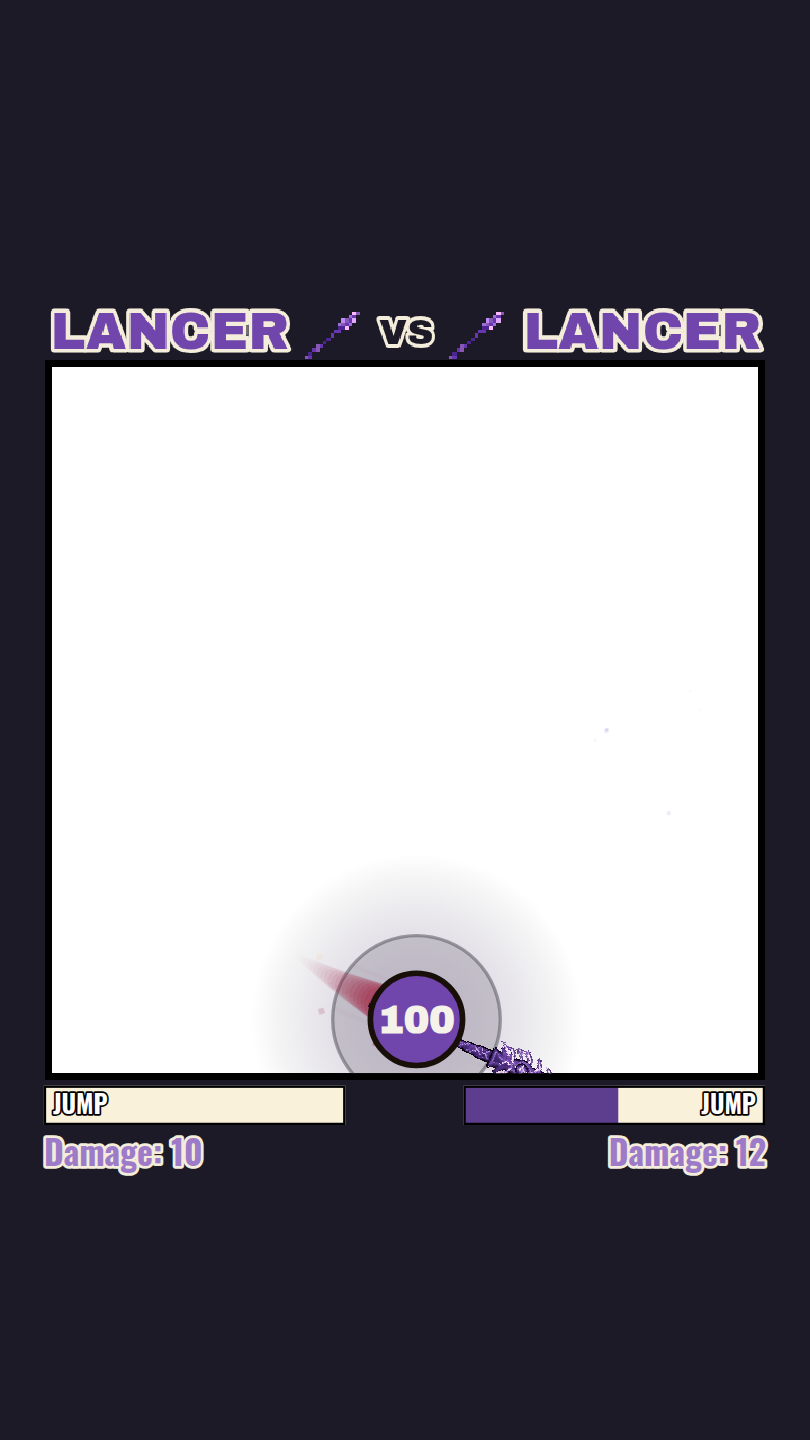
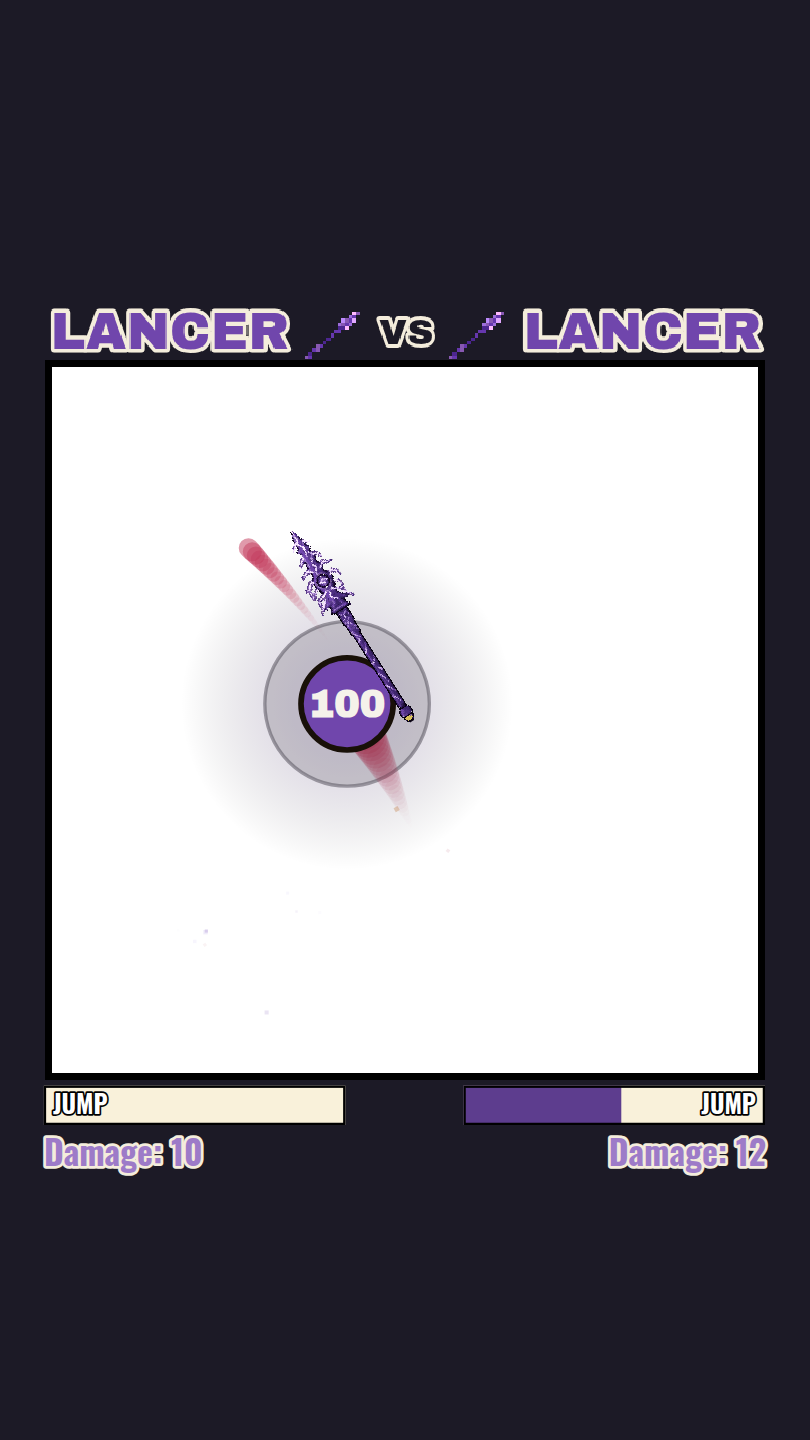
Aligne l'arme du Lancier sur la vidéo : calque, ancrage latéral, arrêt avant charge
Trois comportements demandés, tous relevés sur la vidéo de référence avant
d'être codés. Note préalable : le bloc « scripts du Dragoon » du brief est
arrivé vide, et de toute façon le Dragoon *est* le Lancier dans ce dépôt — il
n'existe pas de seconde classe. La vidéo est donc la seule référence.

1. Ordre d'affichage

L'arme passait sous le corps ; la vidéo montre la lance qui recouvre
franchement la bille, contour compris. Drapeau `weapon.overBody` porté par la
**fiche**, pas par le moteur, qui continue de ne connaître aucun combattant :
les dix autres gardent l'arme dessous, qui est leur relevé.

Elle est posée après le contour et les anneaux d'état mais **avant le chiffre
de PV**. Dans un miroir Lancier contre Lancier — le duel par défaut depuis la
réduction du roster — ce chiffre est le seul repère qui distingue les deux
camps, et une lance de 164 px par-dessus le perdrait.

2. Ancrage latéral, et recentrage à la charge

Mesuré : distance **signée** du centre de la bille à l'axe de la lance (rayon
33 px vidéo) — +20 px au repos, +38 en croisière, et **+1 px en pleine charge**,
c'est-à-dire pile au centre ; 74 % des images du même côté. La lance est portée
sur le flanc et vient se mettre dans l'axe pour charger.

Le premier relevé de ce décalage rendait 6 px partout, régime après régime, et
concluait donc « rien ne bouge » — un résultat plat que l'œil contredisait sur
une simple capture. Il mesurait le **centroïde** du nuage sombre, et son masque
[…]

Changed region(s): [[0.2778, 0.375, 0.5556, 0.5625], [0.3704, 0.625, 0.679, 0.75], [0.7407, 0.75, 0.7716, 0.7812]]

diff --git a/src/game/fighter.js b/src/game/fighter.js
@@ -91,11 +91,20 @@ export class Fighter {
     /**
      * Temps restant pendant lequel le combattant **sème des images fantômes**.
      * Générique comme `offstage` : le moteur ne sait pas *pourquoi* il en sème,
-     * seul son module le sait (la charge du Dragoon). C'est `render/flair.js`
+     * seul son module le sait (la charge du Lancier). C'est `render/flair.js`
      * qui le lit, donc allumer ce compteur ne peut rien changer au duel — la
      * mise en scène a son propre aléa et son propre banc de particules.
      */
     this.ghosting = 0;
+
+    /**
+     * Décalage **perpendiculaire** de l'ancrage de l'arme, en px, positif vers
+     * la gauche de l'axe. Même forme que les autres compteurs génériques : un
+     * module l'écrit, `weaponPivot()` s'en sert, et le moteur ne sait pas
+     * pourquoi. À zéro — la valeur par défaut, celle des dix autres
+     * combattants — l'arme reste ancrée au centre du corps.
+     */
+    this.weaponLateral = 0;
 
     this.trailTimer = 0;
     this.boost = 0; // durée restante d'un bonus de vitesse
@@ -270,16 +279,39 @@ export class Fighter {
   /* Géométrie de l'arme                                                 */
   /* ------------------------------------------------------------------ */
 
+  /**
+   * **Pivot de l'arme**, en coordonnées monde.
+   *
+   * `weaponLateral` décale l'ancrage **perpendiculairement à l'axe de l'arme**
+   * — c'est un compteur générique de plus (cf. `ghosting`) : un module
+   * l'allume, le moteur s'en sert, et le moteur ne sait pas pourquoi. À zéro,
+   * qui est la valeur par défaut, rien ne change pour personne.
+   *
+   * `bladeSegment()` et `drawWeapon()` passent **tous les deux** par ici, et
+   * c'est le point : décaler seulement le dessin ferait mentir le sprite sur
+   * l'endroit où il coupe. C'est la même discipline que `handle.length`, dont
+   * la somme avec la carte doit toujours retomber sur la portée.
+   */
+  weaponPivot() {
+    const lat = this.weaponLateral;
+    if (!lat) return { x: this.x, y: this.y };
+    return {
+      x: this.x - Math.sin(this.weaponAngle) * lat,
+      y: this.y + Math.cos(this.weaponAngle) * lat,
+    };
+  }
+
   /** Segment tranchant [a,b] en coordonnées monde + rayon. */
   bladeSegment() {
     const { reach, hitbox } = this.el.weapon;
     const c = Math.cos(this.weaponAngle);
     const s = Math.sin(this.weaponAngle);
+    const o = this.weaponPivot();
     return {
-      ax: this.x + c * reach * hitbox.from,
-      ay: this.y + s * reach * hitbox.from,
-      bx: this.x + c * reach * hitbox.to,
-      by: this.y + s * reach * hitbox.to,
+      ax: o.x + c * reach * hitbox.from,
+      ay: o.y + s * reach * hitbox.from,
+      bx: o.x + c * reach * hitbox.to,
+      by: o.y + s * reach * hitbox.to,
       r: hitbox.radius,
     };
   }
@@ -305,9 +337,17 @@ export class Fighter {
       ctx.fill();
     }
 
-    // un module de pouvoirs peut fournir son propre rendu d'arme
-    if (this.customWeapon) this.customWeapon(ctx);
-    else this.drawWeapon(ctx);
+    /**
+     * Ordre d'affichage. Par défaut l'arme passe **sous** le corps, ce qui est
+     * le relevé de tous les combattants d'origine. `weapon.overBody` la fait
+     * passer par-dessus — c'est le cas du Lancier, dont la vidéo montre la
+     * lance qui recouvre franchement la bille.
+     *
+     * Le drapeau est porté par la **fiche** et non par le moteur : celui-ci ne
+     * connaît toujours aucun combattant, il lit.
+     */
+    const overBody = this.el.weapon.overBody === true;
+    if (!overBody) this.paintWeapon(ctx);
 
     // corps — le flash blanc d'encaissement prime sur tout, puis la teinte
     // d'un contrôle adverse se pose (ou se mélange) sur la couleur d'élément
@@ -355,6 +395,14 @@ export class Fighter {
       ctx.fill();
     }
 
+    /**
+     * L'arme au-dessus du corps se pose ici : après le contour et les anneaux
+     * d'état, **avant le chiffre de PV**. Le chiffre reste donc lisible — dans
+     * un miroir Lancier contre Lancier, c'est le seul repère qui distingue les
+     * deux camps, et le faire recouvrir par une lance de 164 px le perdrait.
+     */
+    if (overBody) this.paintWeapon(ctx);
+
     // points de vie
     ctx.font = look.hpFont;
     ctx.textAlign = 'center';
@@ -370,6 +418,12 @@ export class Fighter {
     return true;
   }
 
+  /** Un module de pouvoirs peut fournir son propre rendu d'arme. */
+  paintWeapon(ctx) {
+    if (this.customWeapon) this.customWeapon(ctx);
+    else this.drawWeapon(ctx);
+  }
+
   /** @param {CanvasRenderingContext2D} ctx */
   drawWeapon(ctx) {
     const w = this.el.weapon;
@@ -377,7 +431,9 @@ export class Fighter {
     const headH = map.h * w.head.scale;
 
     ctx.save();
-    ctx.translate(this.x, this.y);
+    // le pivot, pas le centre du corps : voir `weaponPivot()`
+    const pivot = this.weaponPivot();
+    ctx.translate(pivot.x, pivot.y);
     ctx.rotate(this.weaponAngle);
 
     // manche : rectangle sombre + liseré, comme sur la vidéo.

diff --git a/src/game/abilities/lancer.js b/src/game/abilities/lancer.js
@@ -88,7 +88,7 @@ import { ARENA } from '../../data/tuning.js';
  * aucun sens, et geler l'angle non plus — c'est le cap qui est gele pendant la
  * charge, et l'arme suit.
  *
- * @typedef {'seek'|'dash'|'recover'} LungePhase
+ * @typedef {'seek'|'brace'|'dash'|'recover'} LungePhase
  */
 
 export const lancerAbilities = {
@@ -171,6 +171,30 @@ export const lancerAbilities = {
     f.weaponAngle = wrapAngle(f.heading);
 
     /**
+     * **Ancrage latéral, et son recentrage au moment de la charge.**
+     *
+     * Relevé sur la vidéo, décalage signé de l'axe de la lance au centre de la
+     * bille (rayon 33 px vidéo) : **+20 px au repos**, **+38 px en croisière**,
+     * et **+1 px en pleine charge** — c'est-à-dire pile au centre. La lance
+     * est portée sur le flanc et vient se mettre dans l'axe du corps pour
+     * charger.
+     *
+     * Le premier relevé de ce décalage rendait 6 px partout, régime après
+     * régime, et concluait donc « rien ne bouge ». Il mesurait le **centroïde**
+     * du nuage sombre, et son masque attrapait le **contour de la bille** —
+     * noir et centré, il tirait tout centroïde vers zéro quoi que fasse la
+     * lance. La bonne quantité est la distance du centre à **l'axe ajusté**,
+     * mesurée sur des pixels pris hors du disque.
+     *
+     * Le rapprochement se fait à vitesse bornée plutôt que d'un coup : à
+     * 33 px/image l'arme saute d'un flanc à l'autre, et la charge démarre sur
+     * un clignotement.
+     */
+    const wanted = f.state.phase === 'brace' || f.state.phase === 'dash' ? 0 : L.lateral;
+    const step = L.lateralRate * dt;
+    f.weaponLateral += Math.max(-step, Math.min(step, wanted - f.weaponLateral));
+
+    /**
      * **La lance ne blesse qu'en charge.** Hors charge elle est *portée*, pas
      * poussée : le verrou de touche est retenu à chaque pas, et seule la phase
      * `dash` le laisse courir.
@@ -194,9 +218,24 @@ export const lancerAbilities = {
         if (d > L.range || d < L.minRange) return;
         // l'adversaire doit etre dans l'axe de la lance — c'est-a-dire du cap
         const bear = Math.atan2(target.y - f.y, target.x - f.x);
-        if (Math.abs(wrapAngle(bear - f.heading)) <= L.cone) this.dash(f, game);
+        if (Math.abs(wrapAngle(bear - f.heading)) <= L.cone) this.brace(f);
         break;
       }
+
+      /**
+       * **Le temps d'arrêt avant la charge.** Le corps est cloué sur place et
+       * le cap gelé ; c'est pendant ce battement que la lance se recentre.
+       *
+       * Relevé : la vitesse tombe à **163 px/s une image avant le
+       * déclenchement**, contre ~1 700 juste avant et ~3 100 juste après. Le
+       * personnage se plante, puis part. Sur deux déclenchements seulement —
+       * l'échantillon est mince, et c'est la description de la vidéo qui le
+       * corrobore, pas la statistique seule.
+       */
+      case 'brace':
+        f.heading = f.state.dashAngle;
+        if (f.state.phaseTimer >= L.brace) this.dash(f, game);
+        break;
 
       case 'dash':
         // ligne droite : le cap est reecrit a chaque pas sur l'angle de depart,
@@ -214,11 +253,26 @@ export const lancerAbilities = {
     }
   },
 
+  /**
+   * Entrée en arrêt. Le cap de la charge est figé **ici**, pas au départ du
+   * dash : c'est ce qui fait que l'arrêt vise déjà juste, et que la charge
+   * part exactement là où la lance pointait quand elle s'est immobilisée.
+   */
+  brace(f) {
+    const L = f.el.weapon.lunge;
+    f.state.dashAngle = f.heading;
+    this.setPhase(f, 'brace');
+    // L'arrêt passe par le levier de vitesse **du moteur** (`boost` /
+    // `boostFactor`) plutôt que par un champ à lui : `endDash` les remet déjà
+    // tous les deux, donc l'arrêt hérite gratuitement du point de sortie
+    // unique, au lieu d'ouvrir une seconde chose à oublier.
+    f.boost = L.brace;
+    f.boostFactor = 0;
+  },
+
   /** Départ de la charge : vitesse, cap et traînée sont allumés ensemble. */
   dash(f, game) {
     const L = f.el.weapon.lunge;
-    // le cap de la charge est le cap courant : la lance pointe deja dedans
-    f.state.dashAngle = f.heading;
     this.setPhase(f, 'dash');
     f.boost = L.dash;
     f.boostFactor = L.speed;

diff --git a/src/data/elements.js b/src/data/elements.js
@@ -1841,7 +1841,29 @@ const LANCER = {
        * pour retrouver le budget relevé. Le balayage est net — 320 → 2,04 PV/s,
        * 300 → 2,26, 280 → 2,35, **265 → 2,52**, 200 → 3,29.
        */
-      minRange: 265,
+      minRange: 240,
+      /**
+       * **Temps d'arrêt avant la charge**, en secondes. Mesuré : la vitesse
+       * tombe à **163 px/s une image avant le déclenchement**, contre ~1 700
+       * juste avant et ~3 100 juste après — le Lancier se plante, puis part.
+       *
+       * L'échantillon est mince (deux déclenchements nets sur la vidéo), et
+       * c'est la description du mouvement qui le corrobore plutôt que la
+       * statistique seule. La durée, elle, est **calée** : à une image (0,033 s)
+       * le battement ne se voit pas à l'œil.
+       */
+      brace: 0.05,
+      /**
+       * **Décalage latéral de l'ancrage de l'arme**, en px logiques, hors
+       * charge. Mesuré : distance signée du centre de la bille à l'axe de la
+       * lance, +20 px vidéo au repos et +38 en croisière, contre **+1 en pleine
+       * charge**. La lance est portée sur le flanc et se recentre pour charger.
+       * Converti en ×1,25 : ~25 à ~47 px logiques, on prend le milieu.
+       */
+      lateral: 36,
+      /** Calé : vitesse de rattrapage du décalage, en px/s. D'un coup, l'arme
+       *  saute d'un flanc à l'autre et la charge démarre sur un clignotement. */
+      lateralRate: 420,
       range: 470,
       /**
        * Calé : demi-angle du cône d'engagement. La charge ne part que si
@@ -1881,6 +1903,18 @@ const LANCER = {
      *  ce que ne fait aucune autre arme du roster. */
     handle: { length: -44, width: 0, color: '#4c2d80', dark: '#210f3e', outline: '#080211', gem: null },
     head: { sprite: 'lancerSpear', scale: 1, anchorY: 0.5 }, // −44 + 208 × 1 = 164
+    /**
+     * **L'arme passe par-dessus la bille.** Mesuré : sur la vidéo, la lance
+     * recouvre franchement le disque, contour compris. C'est l'inverse des dix
+     * autres combattants, dont l'arme passe dessous — d'où le drapeau, porté
+     * par la fiche et non par le moteur.
+     *
+     * `fighter.js` la pose alors après le contour et les anneaux d'état mais
+     * **avant le chiffre de PV** : dans un miroir Lancier contre Lancier, ce
+     * chiffre est le seul repère qui distingue les deux camps, et une lance de
+     * 164 px par-dessus le perdrait.
+     */
+    overBody: true,
     /** Seule la lame tranche : elle commence à 52 px du centre (fraction 0,32),
      *  le talon et le manche ne comptent pas. Rayon volontairement fin — une
      *  arme aussi longue touche sans arrêt avec un gros rayon. */

diff --git a/CLAUDE.md b/CLAUDE.md
@@ -118,14 +118,24 @@ rebonds du pas courant : l'arme ne traîne jamais d'une image derrière le corps
 
 #### La charge
 
-Trois phases, typées `LungePhase` — il n'y a plus ni visée ni verrouillage,
-puisque la lance est **déjà** dans l'axe du déplacement :
+Quatre phases, typées `LungePhase` — il n'y a toujours ni visée ni
+verrouillage, puisque la lance est **déjà** dans l'axe du déplacement :
 
 | Phase | Ce qui s'y passe |
 | --- | --- |
-| `seek` | déplacement normal ; part en charge si l'adversaire est dans la fenêtre de distance **et** dans le cône du cap |
+| `seek` | déplacement normal ; s'engage si l'adversaire est dans la fenêtre de distance **et** dans le cône du cap |
+| `brace` | **le corps se cloue sur place**, cap gelé, et l'arme se recentre. Mesuré : la vitesse tombe à 163 px/s une image avant le déclenchement, contre ~1 700 juste avant et ~3 100 juste après |
 | `dash` | le corps file à 2,6 × sa vitesse, cap gelé — donc angle d'arme gelé aussi, sans avoir à le geler |
 | `recover` | temps mort après la charge ou la touche |
+
+**L'arrêt se paie sur le taux de réussite, pas sur le temps mort.** Il coûtait
+0,52 PV/s en arrivant, et retoucher `recover` n'y changeait rien (2,00 → 2,07
+en passant de 0,55 à 0,40). La cause est mécanique : pendant l'arrêt
+l'adversaire continue d'avancer, donc la charge part vers où il **était**. Le
+seul levier qui compte est la durée de l'arrêt — 0,10 s → 2,00 PV/s, 0,05 →
+2,25, 0,033 → 2,29 — et à la valeur relevée (0,033 s, une image à 30 fps) le
+moteur rend **0,181 coup/s**, exactement la cadence mesurée. Encore un chiffre
+qu'on n'a pas eu à caler.
 
 Un seul point de sortie, `endDash()`, qui remet ensemble vitesse, facteur de
 vitesse et traînée — c'est le piège du Bretteur.
@@ -271,12 +281,14 @@ sans que ça se voie.
      pour beaucoup — exactement le profil que le bouclier absorbe. Elle les bat
      9-0. Ce n'est pas une dérive, c'est un couplage de fiches ; aucune valeur
      de la Lumière n'a jamais été touchée.
-     Le **Vent tient la bande de justesse à 13**, en perdant 0-3 contre le
-     Lancier, l'Eau et le Hors-la-loi. Il y était déjà à 14 avant la refonte de
-     l'arme ; c'est le combattant que la moindre retouche du Lancier fait
-     sortir, et le premier à surveiller.
-   - Relevé courant : Lumière 21, Feu 17, Ombre 16, Plante 15, Hors-la-loi 15,
-     Glace 14, Bretteur 14, Eau 14, Foudre 13, Vent 13, **Lancier 13**. Dix
+     L'**Eau tient la bande de justesse à 13**, en perdant 0-3 contre l'Ombre,
+     la Lumière et le Lancier. C'est elle que la moindre retouche du Lancier
+     fait sortir, donc la première à surveiller : à `lunge.minRange` 220 il la
+     balaie 3-0 et elle tombe à 12, à 240 il n'en prend que deux et elle
+     revient. Ces 20 px de fenêtre coûtent 0,13 PV/s de fidélité (2,53 contre
+     2,40) — la bande passe avant, c'est un invariant.
+   - Relevé courant : Lumière 21, Hors-la-loi 16, **Lancier 16**, Ombre 15,
+     Glace 15, Foudre 15, Feu 14, Vent 14, Plante 13, Bretteur 13, Eau 13. Dix
      combattants sur onze tiennent dans la bande.
    - **`ROSTER` décide qui est le camp A.** Les paires sont formées en
      `[liste[i], liste[j]]`, et le camp A pèse lourd. Un nouveau venu s'ajoute
@@ -306,9 +318,22 @@ sans que ça se voie.
    `render/flair.js` (six boucles), `physics.js`, `projectiles.js` et le rendu
    de `match.js`. Un oubli laisse un ruban, une nappe ou une hitbox fantôme au
    dernier point connu.
+8. **Un décalage de dessin doit passer par le pivot, jamais par le seul
+   `translate`.** L'arme du Lancier est ancrée **sur le flanc** du corps
+   (`Fighter.weaponLateral`, écrit par son module — encore un compteur
+   générique : à zéro, les dix autres ne changent pas). `weaponPivot()` est lu
+   par `drawWeapon()` **et** par `bladeSegment()` : décaler seulement le dessin
+   ferait mentir le sprite sur l'endroit où il coupe. C'est la même discipline
+   que `handle.length`, dont la somme avec la carte doit retomber sur la portée.
 
 ## Écarts volontaires au relevé
 
+- **L'arme du Lancier passe au-dessus du corps** (`weapon.overBody`) — c'est
+  son relevé, la vidéo montre la lance qui recouvre franchement la bille. Elle
+  passe en revanche **sous le chiffre de PV** : dans un miroir Lancier contre
+  Lancier, ce chiffre est le seul repère qui distingue les deux camps, et une
+  lance de 164 px par-dessus le perdrait. Les dix autres gardent l'arme sous le
+  corps, qui est leur relevé.
 - Fond hors-arène : la vidéo est sur papier crème, le site est en **encre
   sombre `#1c1a26`**. L'arène reste blanche → le pixel-art garde ses contours
   noirs mesurés. Le « chrome » posé sur le fond sombre (titre, lignes de stat)

diff --git a/docs/FICHES.md b/docs/FICHES.md
@@ -505,14 +505,42 @@ seul les trois comportements visibles image par image :
 Aucun de ces trois nombres n'est écrit dans la fiche. Une hypothèse qui demande
 un paramètre par comportement observé est fausse ; celle-ci n'en demande aucun.
 
-**La charge, en trois phases.** Il n'y a plus ni visée ni verrouillage : la
-lance suivant le cap, elle est *déjà* dans l'axe de la charge.
+**La charge, en quatre phases.** Toujours ni visée ni verrouillage : la lance
+suivant le cap, elle est *déjà* dans l'axe de la charge.
 
 | Phase | Ce qui s'y passe |
 | --- | --- |
-| `seek` | déplacement normal ; part en charge si l'adversaire est dans la fenêtre de distance **et** dans le cône du cap |
+| `seek` | déplacement normal ; s'engage si l'adversaire est dans la fenêtre de distance **et** dans le cône du cap |
+| `brace` | **le corps se cloue sur place**, cap gelé, et l'arme se recentre du flanc vers l'axe |
 | `dash` | le corps file à 2,6 × sa vitesse, cap gelé — donc angle d'arme gelé aussi, sans avoir à le geler |
 | `recover` | temps mort après la charge ou la touche |
+
+**L'arrêt avant la charge est relevé.** La vitesse tombe à **163 px/s une image
+avant le déclenchement**, contre ~1 700 juste avant et ~3 100 juste après : le
+Lancier se plante, puis part. L'échantillon est mince — deux déclenchements
+nets sur la vidéo — et c'est la lecture du mouvement qui le corrobore plutôt
+que la statistique seule.
+
+Il se paie sur le **taux de réussite**, pas sur le temps mort : il coûtait
+0,52 PV/s en arrivant, et retoucher `recover` n'y changeait rien (2,00 → 2,07
+de 0,55 à 0,40). Pendant l'arrêt l'adversaire continue d'avancer, donc la
+charge part vers où il **était**. Le seul levier est la durée de l'arrêt —
+0,10 s → 2,00 PV/s, 0,05 → 2,25, 0,033 → 2,29 — et à la valeur relevée
+(0,033 s) le moteur rend 0,181 coup/s, exactement la cadence mesurée. L'arrêt
+est réglé à 0,05 s, dans l'incertitude d'un échantillonnage à 30 fps et plus
+lisible à l'œil.
+
+**L'arme est ancrée sur le flanc, et se recentre pour charger.** Mesuré :
+distance signée du centre de la bille à l'axe de la lance (rayon 33 px vidéo) —
+**+20 px au repos**, **+38 en croisière**, **+1 en pleine charge**, c'est-à-dire
+pile au centre ; 74 % des images du même côté. Le décalage est un compteur
+générique de plus, `Fighter.weaponLateral`, et `weaponPivot()` est lu par le
+dessin **et** par la hitbox : décaler seulement le dessin ferait mentir le
+sprite sur l'endroit où il coupe.
+
+**L'arme passe au-dessus du corps** (`weapon.overBody`), et **sous le chiffre de
+PV** — dans un miroir Lancier contre Lancier ce chiffre est le seul repère qui
+distingue les deux camps.
 
 La charge a **un seul point de sortie**, `endDash()`, qui remet ensemble
 vitesse, facteur de vitesse et traînée — c'est le piège du Bretteur, dont la
